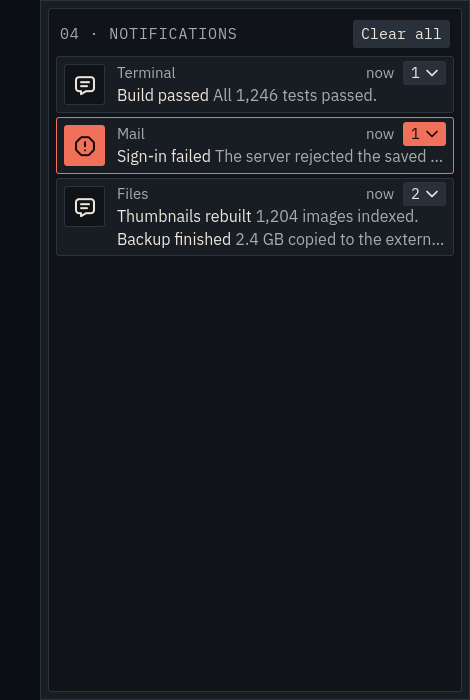
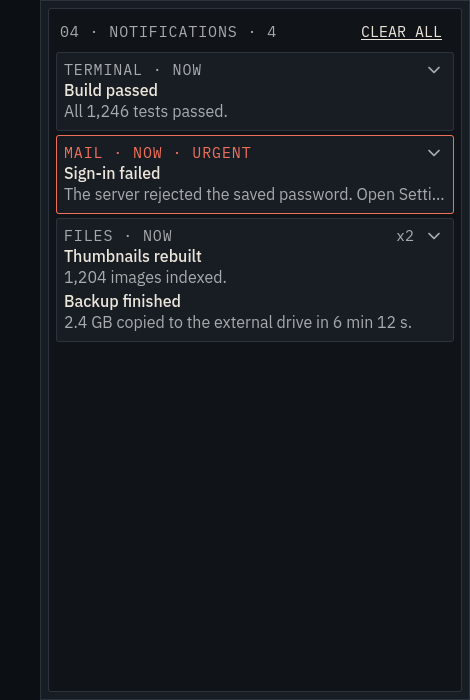
fix(sidebar): notification history adopts the popup anatomy (#552)

diff --git a/modules/sidebar/NotifGroup.qml b/modules/sidebar/NotifGroup.qml
@@ -5,6 +5,7 @@ import qs.components.effects
 import qs.services
 import qs.config
 import qs.utils
+import qs.modules.instruments as Instruments
 import Quickshell
 import Quickshell.Services.Notifications
 import QtQuick
@@ -27,7 +28,7 @@ StyledRect {
     readonly property int nonAnimHeight: {
         const headerHeight = header.implicitHeight + (root.expanded ? Math.round(Appearance.spacing.small / 2) : 0);
         const columnHeight = headerHeight + notifList.nonAnimHeight + column.Layout.topMargin + column.Layout.bottomMargin;
-        return Math.round(Math.max(Config.notifs.sizes.image, columnHeight) + Appearance.padding.normal * 2);
+        return Math.round(Math.max(root.image.length > 0 ? Config.notifs.sizes.image : 0, columnHeight) + Appearance.padding.normal * 2);
     }
     readonly property bool expanded: props.expandedNotifs.includes(modelData)
 
@@ -65,87 +66,22 @@ StyledRect {
 
         spacing: Appearance.spacing.normal
 
-        Item {
+        // Only a real notification image earns a thumbnail; app icons are
+        // 20 px in the eyebrow row and there is no generic icon tile.
+        Image {
             Layout.alignment: Qt.AlignLeft | Qt.AlignTop
-            implicitWidth: Config.notifs.sizes.image
-            implicitHeight: Config.notifs.sizes.image
-
-            Component {
-                id: imageComp
-
-                Image {
-                    source: Qt.resolvedUrl(root.image)
-                    fillMode: Image.PreserveAspectCrop
-                    cache: false
-                    asynchronous: true
-                    width: Config.notifs.sizes.image
-                    height: Config.notifs.sizes.image
-                }
-            }
-
-            Component {
-                id: appIconComp
-
-                ColouredIcon {
-                    implicitSize: Math.round(Config.notifs.sizes.image * 0.6)
-                    source: Quickshell.iconPath(root.appIcon)
-                    colour: root.urgency === NotificationUrgency.Critical ? Signal.palette.onAlert : root.urgency === NotificationUrgency.Low ? Signal.palette.ink : Signal.palette.ink
-                    layer.enabled: root.appIcon.endsWith("symbolic")
-                }
-            }
-
-            Component {
-                id: glyphIconComp
-
-                Glyph {
-                    name: Icons.getNotifIcon(root.notifs[0]?.summary, root.urgency)
-                    color: root.urgency === NotificationUrgency.Critical ? Signal.palette.onAlert : root.urgency === NotificationUrgency.Low ? Signal.palette.ink : Signal.palette.ink
-                    font.pointSize: Appearance.font.size.large
-                }
-            }
-
-            Rectangle {
-                anchors.fill: parent
-                clip: true
-                color: root.urgency === NotificationUrgency.Critical ? Signal.palette.alert : Signal.palette.sunken
-                radius: Appearance.rounding.small
-                border.width: 1
-                border.color: root.urgency === NotificationUrgency.Critical ? Signal.palette.alert : Signal.palette.rule
-
-                Loader {
-                    anchors.centerIn: parent
-                    sourceComponent: root.image ? imageComp : root.appIcon ? appIconComp : glyphIconComp
-                }
-            }
-
-            Loader {
-                anchors.right: parent.right
-                anchors.bottom: parent.bottom
-                active: root.appIcon && root.image
-
-                sourceComponent: StyledRect {
-                    implicitWidth: Config.notifs.sizes.badge
-                    implicitHeight: Config.notifs.sizes.badge
-
-                    color: root.urgency === NotificationUrgency.Critical ? Signal.palette.alert : Signal.palette.raised
-                    radius: Appearance.rounding.small
-
-                    ColouredIcon {
-                        anchors.centerIn: parent
-                        implicitSize: Math.round(Config.notifs.sizes.badge * 0.6)
-                        source: Quickshell.iconPath(root.appIcon)
-                        colour: root.urgency === NotificationUrgency.Critical ? Signal.palette.onAlert : root.urgency === NotificationUrgency.Low ? Signal.palette.ink : Signal.palette.ink
-                        layer.enabled: root.appIcon.endsWith("symbolic")
-                    }
-                }
-            }
+            Layout.preferredWidth: Config.notifs.sizes.image
+            Layout.preferredHeight: Config.notifs.sizes.image
+            visible: root.image.length > 0
+            source: root.image.length > 0 ? Qt.resolvedUrl(root.image) : ""
+            fillMode: Image.PreserveAspectCrop
+            cache: false
+            asynchronous: true
         }
 
         ColumnLayout {
             id: column
 
-            Layout.topMargin: -Appearance.padding.small
-            Layout.bottomMargin: -Appearance.padding.small / 2
             Layout.fillWidth: true
             spacing: 0
 
@@ -156,73 +92,74 @@ StyledRect {
                 Layout.fillWidth: true
                 spacing: Appearance.spacing.smaller
 
-                StyledText {
+                // App icon at 20 px, only when the app supplies one.
+                Loader {
+                    active: root.appIcon.length > 0
+                    visible: active
+                    Layout.preferredWidth: 20
+                    Layout.preferredHeight: 20
+
+                    sourceComponent: ColouredIcon {
+                        anchors.fill: parent
+                        source: Quickshell.iconPath(root.appIcon)
+                        colour: Signal.palette.ink
+                        layer.enabled: root.appIcon.endsWith("symbolic")
+                    }
+                }
+
+                // Eyebrow: APP · TIME, plus URGENT in words for critical so
+                // the state never relies on colour alone.
+                Instruments.Eyebrow {
                     Layout.fillWidth: true
-                    text: root.modelData
-                    color: Signal.palette.inkMuted
-                    font.pointSize: Appearance.font.size.small
-                    elide: Text.ElideRight
+                    label: {
+                        const when = root.notifs.find(n => !n.closed)?.timeStr ?? "";
+                        let s = root.modelData + (when !== "" ? ` · ${when}` : "");
+                        if (root.urgency === NotificationUrgency.Critical)
+                            s += ` · ${qsTr("Urgent")}`;
+                        return s;
+                    }
+                    color: root.urgency === NotificationUrgency.Critical ? Signal.palette.alert : Signal.palette.inkMuted
                 }
 
+                // Quiet group count (x2), only when there is a group.
                 StyledText {
+                    visible: root.notifCount > 1
                     animate: true
-                    text: root.notifs.find(n => !n.closed)?.timeStr ?? ""
+                    text: `x${root.notifCount}`
+                    mono: true
                     color: Signal.palette.inkMuted
                     font.pointSize: Appearance.font.size.small
                 }
 
-                StyledRect {
-                    implicitWidth: expandBtn.implicitWidth + Appearance.padding.smaller * 2
-                    implicitHeight: groupCount.implicitHeight + Appearance.padding.small
+                // Expand affordance: a chevron glyph, no box.
+                Item {
+                    id: expandBtn
 
-                    color: root.urgency === NotificationUrgency.Critical ? Signal.palette.alert : Signal.palette.lifted
-                    radius: Appearance.rounding.small
-                    border.width: 1
-                    border.color: root.urgency === NotificationUrgency.Critical ? Signal.palette.alert : Signal.palette.rule
+                    Accessible.role: Accessible.Button
+                    Accessible.name: root.expanded ? qsTr("Collapse group") : qsTr("Expand group")
+
+                    implicitWidth: 24
+                    implicitHeight: 20
 
                     StateLayer {
-                        color: root.urgency === NotificationUrgency.Critical ? Signal.palette.onAlert : Signal.palette.ink
+                        radius: Appearance.rounding.small
+                        color: Signal.palette.ink
 
                         function onClicked(): void {
                             root.toggleExpand(!root.expanded);
                         }
                     }
 
-                    RowLayout {
-                        id: expandBtn
-
+                    Glyph {
                         anchors.centerIn: parent
-                        spacing: Appearance.spacing.small / 2
+                        name: "chevron-down"
+                        color: Signal.palette.inkMuted
+                        rotation: root.expanded ? 180 : 0
 
-                        StyledText {
-                            id: groupCount
-
-                            Layout.leftMargin: Appearance.padding.small / 2
-                            animate: true
-                            text: root.notifCount
-                            color: root.urgency === NotificationUrgency.Critical ? Signal.palette.onAlert : Signal.palette.ink
-                            font.pointSize: Appearance.font.size.small
-                        }
-
-                        Glyph {
-                            Layout.rightMargin: -Appearance.padding.small / 2
-                            name: "chevron-down"
-                            color: root.urgency === NotificationUrgency.Critical ? Signal.palette.onAlert : Signal.palette.ink
-                            rotation: root.expanded ? 180 : 0
-                            Layout.topMargin: root.expanded ? -Math.floor(Appearance.padding.smaller / 2) : 0
-
-                            Behavior on rotation {
-                                Anim {
-                                    duration: Appearance.anim.durations.settle
-                                    easing.bezierCurve: Appearance.anim.curves.settle
-                                }
-                            }
-
-                            Behavior on Layout.topMargin {
-                                Anim {
-                                    duration: Appearance.anim.durations.settle
-                                    easing.bezierCurve: Appearance.anim.curves.settle
-                                }
+                        Behavior on rotation {
+                            Anim {
+                                duration: Appearance.anim.durations.settle
+                                easing.bezierCurve: Appearance.anim.curves.settle
                             }
                         }
                     }

diff --git a/modules/sidebar/Notif.qml b/modules/sidebar/Notif.qml
@@ -16,7 +16,8 @@ StyledRect {
     required property var visibilities
 
     readonly property StyledText body: expandedContent.item?.body ?? null
-    readonly property real nonAnimHeight: expanded ? summary.implicitHeight + expandedContent.implicitHeight + expandedContent.anchors.topMargin + Appearance.padding.normal * 2 : summaryHeightMetrics.height
+    readonly property bool hasBody: root.modelData.body.trim() !== ""
+    readonly property real nonAnimHeight: expanded ? summary.implicitHeight + expandedContent.implicitHeight + expandedContent.anchors.topMargin + Appearance.padding.normal * 2 : summaryHeightMetrics.height + (hasBody ? bodyHeightMetrics.height : 0)
 
     // Urgency-driven color roles
     readonly property bool isCritical: root.modelData.urgency === "critical"
@@ -115,6 +116,14 @@ StyledRect {
         text: " " // Use this height to prevent weird characters from changing the line height
     }
 
+    TextMetrics {
+        id: bodyHeightMetrics
+
+        font.pointSize: Appearance.font.size.smaller
+        text: " "
+    }
+
+    // Title on its own line (popup anatomy), body on the next.
     StyledText {
         id: summary
 
@@ -124,6 +133,7 @@ StyledRect {
         width: parent.width
         text: root.modelData.summary
         color: root.textColor
+        font.weight: Font.Medium
         elide: Text.ElideRight
         wrapMode: Text.WordWrap
         maximumLineCount: 1
@@ -143,14 +153,14 @@ StyledRect {
         id: compactBody
 
         shouldBeActive: !root.expanded
-        anchors.top: parent.top
-        anchors.left: dummySummary.right
+        anchors.top: summary.bottom
+        anchors.left: parent.left
         anchors.right: parent.right
-        anchors.leftMargin: Appearance.spacing.small
 
         sourceComponent: StyledText {
             text: root.modelData.body.replace(/\n/g, " ")
             color: root.bodyColor
+            font.pointSize: Appearance.font.size.smaller
             elide: Text.ElideRight
         }
     }

diff --git a/modules/sidebar/NotifDock.qml b/modules/sidebar/NotifDock.qml
@@ -42,12 +42,12 @@ Item {
             anchors.right: clearBtn.left
             anchors.rightMargin: Appearance.spacing.small
 
-            channel: root.notifCount > 0 ? String(root.notifCount).padStart(2, "0") : ""
-            label: qsTr("Notifications")
+            channel: "04"
+            label: root.notifCount > 0 ? `${qsTr("Notifications")} · ${root.notifCount}` : qsTr("Notifications")
         }
 
-        // Text-labelled clear action, a square key rather than a round FAB.
-        Rectangle {
+        // Clear all: a text segment in the header, not a filled button.
+        Item {
             id: clearBtn
 
             anchors.verticalCenter: parent.verticalCenter
@@ -55,11 +55,7 @@ Item {
 
             visible: root.notifCount > 0
             implicitWidth: clearLabel.implicitWidth + Appearance.padding.normal * 2
-            implicitHeight: 28
-            radius: Appearance.rounding.small
-            color: Signal.palette.lifted
-            border.width: 1
-            border.color: Signal.palette.rule
+            implicitHeight: 24
 
             property string accessibleName: qsTr("Clear all notifications")
 
@@ -67,7 +63,7 @@ Item {
             Accessible.name: accessibleName
 
             StateLayer {
-                radius: parent.radius
+                radius: Appearance.rounding.small
 
                 function onClicked(): void {
                     clearTimer.start();
@@ -81,7 +77,10 @@ Item {
 
                 mono: true
                 text: qsTr("Clear all")
+                color: Signal.palette.ink
                 font.pointSize: Appearance.font.size.small
+                font.capitalization: Font.AllUppercase
+                font.underline: true
             }
         }
     }

diff --git a/tests/test_sidebar_history_signal.py b/tests/test_sidebar_history_signal.py
@@ -1,0 +1,33 @@
+"""Sidebar notification history adopts the popup anatomy (VA-08)."""
+from pathlib import Path
+
+SIDEBAR = Path(__file__).resolve().parent.parent / "modules" / "sidebar"
+
+
+def _src(name: str) -> str:
+    return (SIDEBAR / name).read_text()
+
+
+def test_group_card_uses_eyebrow_not_icon_tile():
+    group = _src("NotifGroup.qml")
+    assert "Instruments.Eyebrow" in group
+    assert "glyphIconComp" not in group and "getNotifIcon" not in group, (
+        "no generic icon tile in history")
+    assert "Layout.preferredWidth: 20" in group, "app icon is 20 px"
+    assert "x${root.notifCount}" in group and "root.notifCount > 1" in group
+    # Urgent is an edge + eyebrow with a word, never a filled tile.
+    assert "qsTr(\"Urgent\")" in group
+    assert "color: root.urgency === NotificationUrgency.Critical ? Signal.palette.alert : Signal.palette.sunken" not in group
+
+
+def test_collapsed_row_puts_title_and_body_on_separate_lines():
+    notif = _src("Notif.qml")
+    assert "anchors.top: summary.bottom" in notif.split("id: compactBody", 1)[1][:300]
+    assert "dummySummary.right" not in notif
+
+
+def test_header_has_count_and_text_clear():
+    dock = _src("NotifDock.qml")
+    assert 'channel: "04"' in dock and "root.notifCount}`" in dock
+    assert "font.underline: true" in dock
+    assert "color: Signal.palette.lifted" not in dock, "Clear all is not a filled button"
